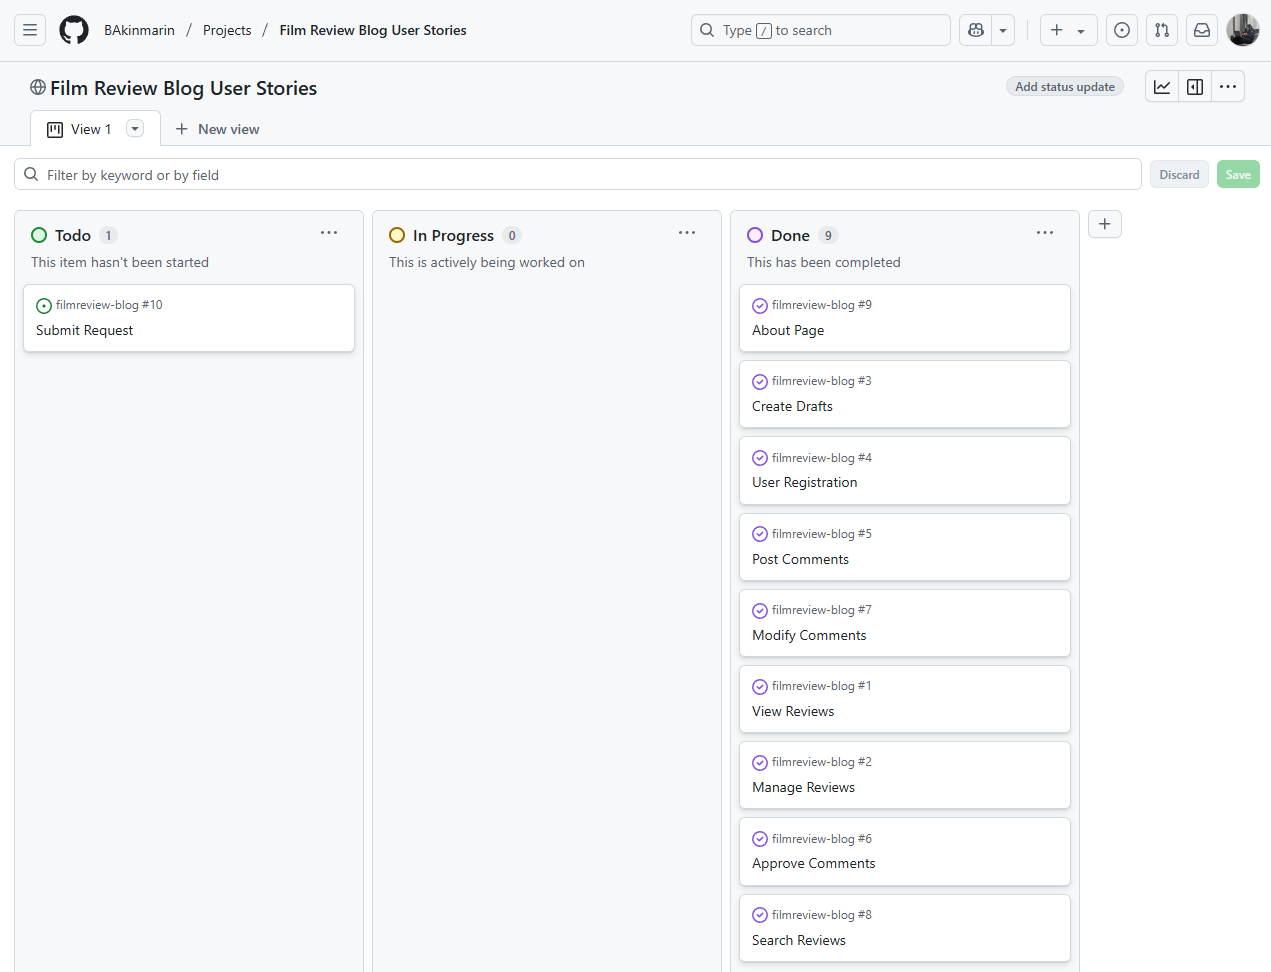
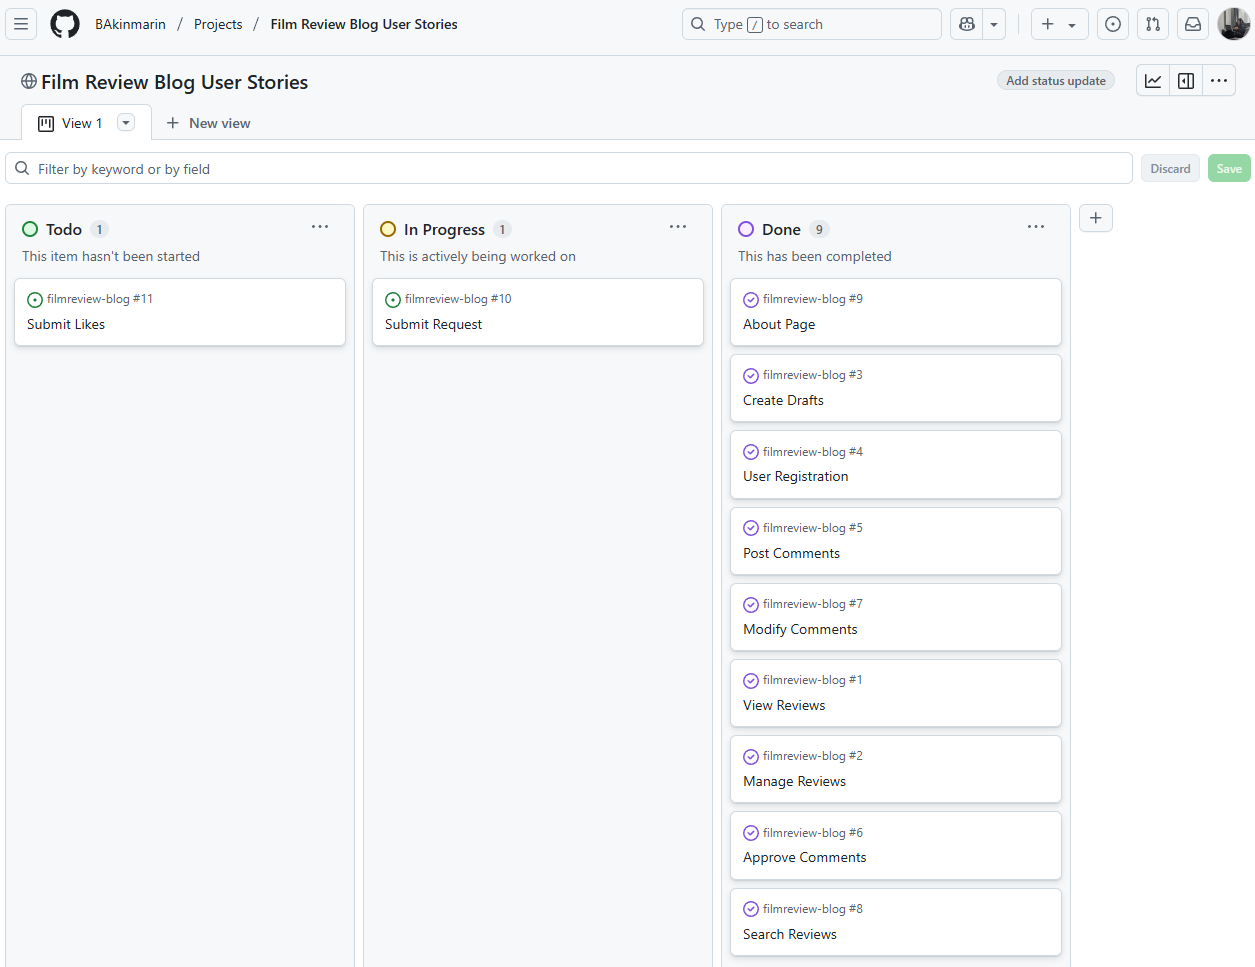
Adjust Film Review form.py, views and styles

diff --git a/review/templates/review/about.html b/review/templates/review/about.html
@@ -5,8 +5,8 @@
 {% block content %}
 <div class="container mt-5">
   <div class="row">
-    <!-- Content-->
-    <div class="col-md-6 col-12">
+    <!-- About Blog Content-->
+    <div class="col-md-6 col-12 p-4">
       <div class="text-block">
         <h2 class="about-h2 header-trailer">🎬 About Blog</h2>
         <hr>
@@ -27,30 +27,23 @@
             🚀<strong>Mission:</strong> To combine technical precision with creative depth, giving users a place to engage with films through 
             insightful reviews, powerful search, and a clean, immersive design.
         </p>
-        <br>
       </div>
     </div>
 
-    <!-- Image Display for large Screens -->
-    <!-- <div class="col-md-6 d-none d-md-block"> -->
-      <!-- <div class="img-wrapper">
-        <img src="{% static 'images/i-like-movies-2022-poster.webp' %}" alt="About Page Image" class="img-fluid rounded shadow">
-      </div> -->
-    <!-- <div class="text-center"> -->
-    <div class="col-md-6 col-12">
-      <div class="text-block">
-        <h2 class="about-h2 header-trailer">🎥 Film Review</h2>
-          <form method="post" class="p-4 rounded dark-bg text-white card-text about-text">
-            <p class="text-white">Fill in this form to submit a film review request</p>
-            {% csrf_token %}
-            {{ form.as_p }}
-            <button type="submit" class="btn btn-signup btn-lg btn-outline-success mt-2">Submit Request</button>
-          </form>
+    <!-- Submit Review Request Content -->
+    <div class="col-md-6 col-12 p-4">
+      <h2 class="about-h2 header-trailer">🎥 Film Review</h2>
+      <div class="dark-bg text-white text-block">
+        <form method="post" class="p-4 text-white form-element">
+        <p class="text-white card-text about-text">Want me to review a film? Submit here!</p>
+          {% csrf_token %}
+          {{ form.as_p }}
+          <button type="submit" class="btn btn-signup btn-lg btn-outline-success mt-2">Submit Request</button>
+        </form>
       </div>
     </div>
   </div>
 </div>
-<br><br>
 <div class="text-center">
   <a href="https://github.com/BAkinmarin" class="about-link" target="_blank"> 🔗Visit My Portfolio</a>
 </div>

diff --git a/static/css/style.css b/static/css/style.css
@@ -238,6 +238,14 @@ a {
     font-weight: 500;
 }
 
+.form-element {
+  font-size: 1.2rem !important;
+  padding: 0.75rem !important;
+  border-radius: 6px;
+  width: 100%;
+  box-sizing: border-box;
+}
+
 .about-span {
     color: #004643;
     font-weight: 500;
@@ -289,8 +297,9 @@ a {
   }
 }
 
+/* Cinematic headers */
 .header-trailer {
-  font-size: 2.5rem;
+  font-size: 2rem;
   text-align: center;
   margin-bottom: 1.5rem;
   animation: trailerReveal 2.2s ease-out;

diff --git a/review/forms.py b/review/forms.py
@@ -12,3 +12,9 @@ class ReviewRequestForm(forms.ModelForm):
     class Meta:
         model = ReviewRequest
         fields = ['name', 'email', 'film_title', 'message']
+        widgets = {
+            'name': forms.TextInput(attrs={'class': 'form-element'}),
+            'email': forms.EmailInput(attrs={'class': 'form-element'}),
+            'film_title': forms.TextInput(attrs={'class': 'form-element'}),
+            'message': forms.Textarea(attrs={'class': 'form-element', 'rows': 5}),
+        }

diff --git a/README.md b/README.md
@@ -144,6 +144,10 @@ The font used in this project was inspired by a desire to use an uncommon font w
 
 [Back to Top](#ux)
 
+## Future Features
+
+[Back to Top](#ux)
+
 ## Technologies
 
 <table>
